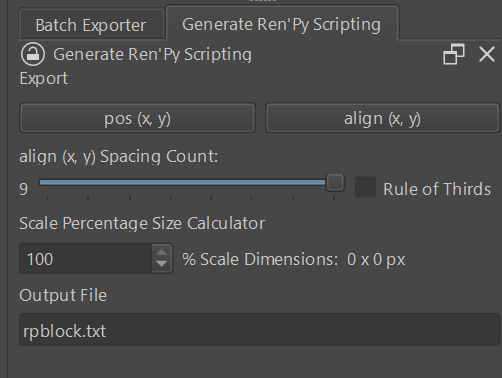
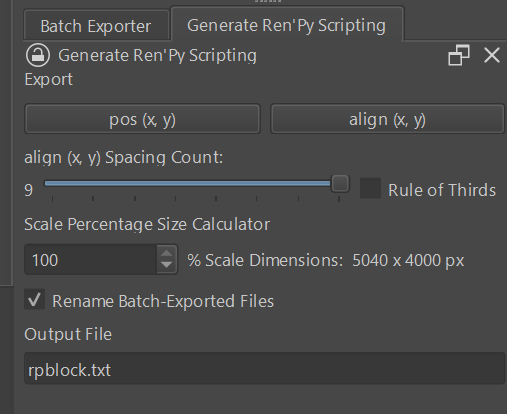
1.3 update

diff --git a/generateRenpyScripting/generateRenpyScripting/generateRenpyScripting.py b/generateRenpyScripting/generateRenpyScripting/generateRenpyScripting.py
@@ -2,11 +2,13 @@ from krita import *
 import sys
 import math
 from pathlib import Path
+import os
 from os.path import join, exists, dirname
 import webbrowser
 from PyQt5.QtWidgets import *
 from sys import platform
 import subprocess
+import shutil
 
 KI = Krita.instance()
 open_notifier = KI.notifier()
@@ -152,26 +154,28 @@ def renameFiles(data_list):
     The data_list gives the scale list in numbers out of 100, so this function
     divides those numbers by 100 to get the multiplier for the folder name.
     """
-#    dirName = os.path.dirname(KI.activeDocument().fileName())
-#    dirName += "/export/"
-#    exportDirName = dirName + "x"
-#    smallest_scale = 100
-#    for d in data_list:
-#        for s in d[3]:
-#            if s < smallest_scale:
-#                smallest_scale = s
-#    exportDirName += str(smallest_scale/100)
-#    Path(exportDirName).mkdir(parents=True, exist_ok=True)
-#    for f in os.listdir(dirName):
-#            fileName, file_ext = os.path.splittext(f)
-#            if file_ext == ".png" or file_ext == ".jpg":
-#                src = f
-#                dst = exportDirName + "/" + f
-#                if platform == "win32":
-#                    status = subprocess.call('copy {} {}'.format(src, dst))
-#            else:
-#                status =  subprocess.call('cp {} {}'.format(filename, fileB))
-
+    dir_name = os.path.dirname(KI.activeDocument().fileName())
+    dir_name = os.path.join(dir_name, "export")
+    export_dir_name = dir_name + os.sep + "x"
+    smallest_scale = 100
+    for d in data_list:
+        for s in d[3]:
+            if s < smallest_scale:
+                smallest_scale = s
+    suffix = "_@" + str(smallest_scale/100) + "x"
+    export_dir_name += str(smallest_scale/100)
+    Path(export_dir_name).mkdir(parents=True, exist_ok=True)
+#    of = open(os.path.join(export_dir_name, "diagnostic.txt"), "w")
+    for filename in os.listdir(dir_name):
+        if filename.find(suffix) != -1:
+            f = os.path.join(dir_name, filename)
+            exp_fname, exp_ext = os.path.splitext(filename)
+            exp_fname = exp_fname[:exp_fname.find(suffix)]
+            exp_fname += exp_ext
+            dst = os.path.join(export_dir_name, exp_fname)
+#            of.write(f + "\n" + dst + "\n" + exp_fname + "\n")
+            shutil.copy(f, dst)
+#    of.close()
 
 class GenerateRenpyScripting(DockWidget):
     title = "Generate Ren'Py Scripting"
@@ -283,7 +287,7 @@ files of the smallest scale without the size suffix, placed in a folder.")
         scale_layout.addWidget(self.scale_w_h_text)
         main_layout.addLayout(scale_layout)
 
-#        main_layout.addWidget(self.rename_check)
+        main_layout.addWidget(self.rename_check)
         main_layout.addWidget(filename_label)
         main_layout.addWidget(self.filename_line)
         main_layout.addStretch()
@@ -331,8 +335,8 @@ files of the smallest scale without the size suffix, placed in a folder.")
             else:
                 push_message = "Failure: Open a Krita document."
                 QMessageBox.information(QWidget(), "Generate Ren'Py Scripting", push_message)
-#        if self.rename_check.isChecked():
-#            renameFiles(data)
+        if self.rename_check.isChecked():
+            renameFiles(data)
 
     def canvasChanged(self, canvas):
         pass

diff --git a/manual.md b/manual.md
@@ -1,6 +1,6 @@
 # Generate Ren'Py Scripting
 by Sean Castillo
-Version 1.2
+Version 1.3
 
 This plugin uses the contents of a Krita document and the layer name syntax for the [Krita Batch Exporter](https://github.com/GDQuest/krita-batch-exporter) by GDQuest to generate a block of text for a Ren'Py script. The block is saved into a file and then automatically opened in the default program for that file extension (e.g. Notepad for .txt on Windows) so that the user may immediately copy and paste the text into a Ren'Py script file. The goal is to coordinate the composed images as they appear in Krita to display the same way in Ren'Py as efficiently as possible by calculating the coordinates and doing the bulk of the typing automatically. Be sure to use images exported by the Batch Exporter to maintain consistency with this plugin's coordinates output.
 

diff --git a/README.md b/README.md
@@ -55,8 +55,11 @@ and when all documents are closed.
 # v1.1 -> v1.1.1 Change
  - It's the same; I just added the in-Krita manual html file.
 
-# v1.1.1 -> v1.2 Change
- - Fixed size parsing issue in preparation for a folder-making feature.
+# v1.1.1 -> v1.2 -> v1.3 Changes
+ - Fixed size parsing issue.
+ - New feature: `Rename Batch-Exported Files` (until I have a more accurate name): \
+Copies the smallest scale batch-exported images to a folder where they don't have \
+the Batch Exporter's `_x[scale]` suffix in their names.
 
 # Feedback
 Do you have suggestions on how to make the plugin better? Are there any commonly-used templates that you want to see as export options? Send a message to my [krita-artists.org page](https://krita-artists.org/u/HyDrone/summary).
